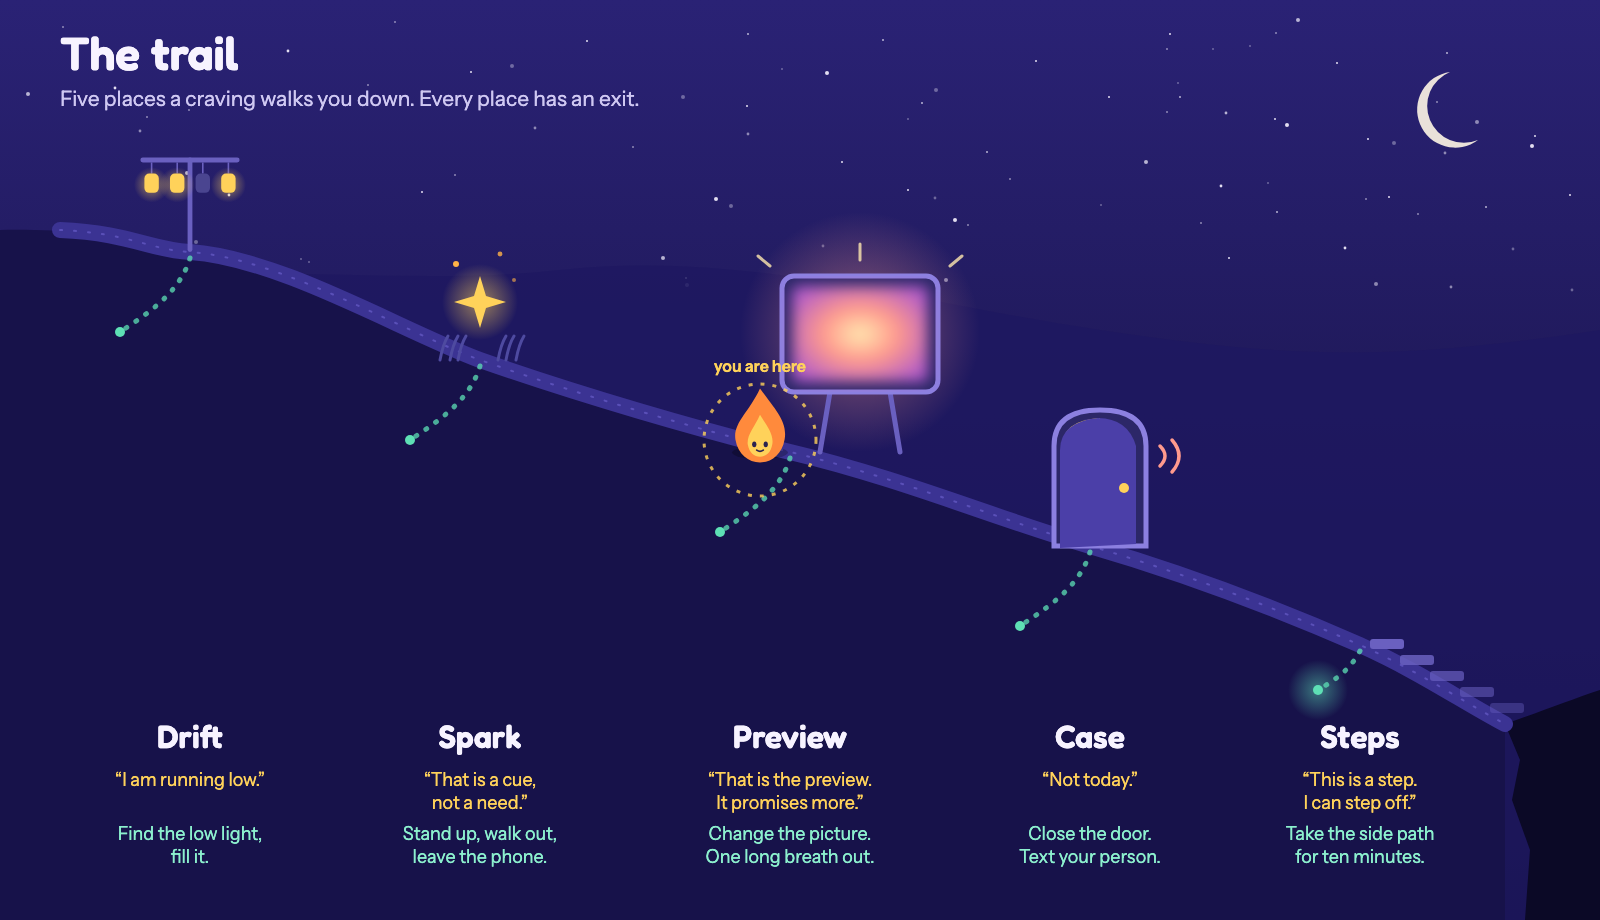
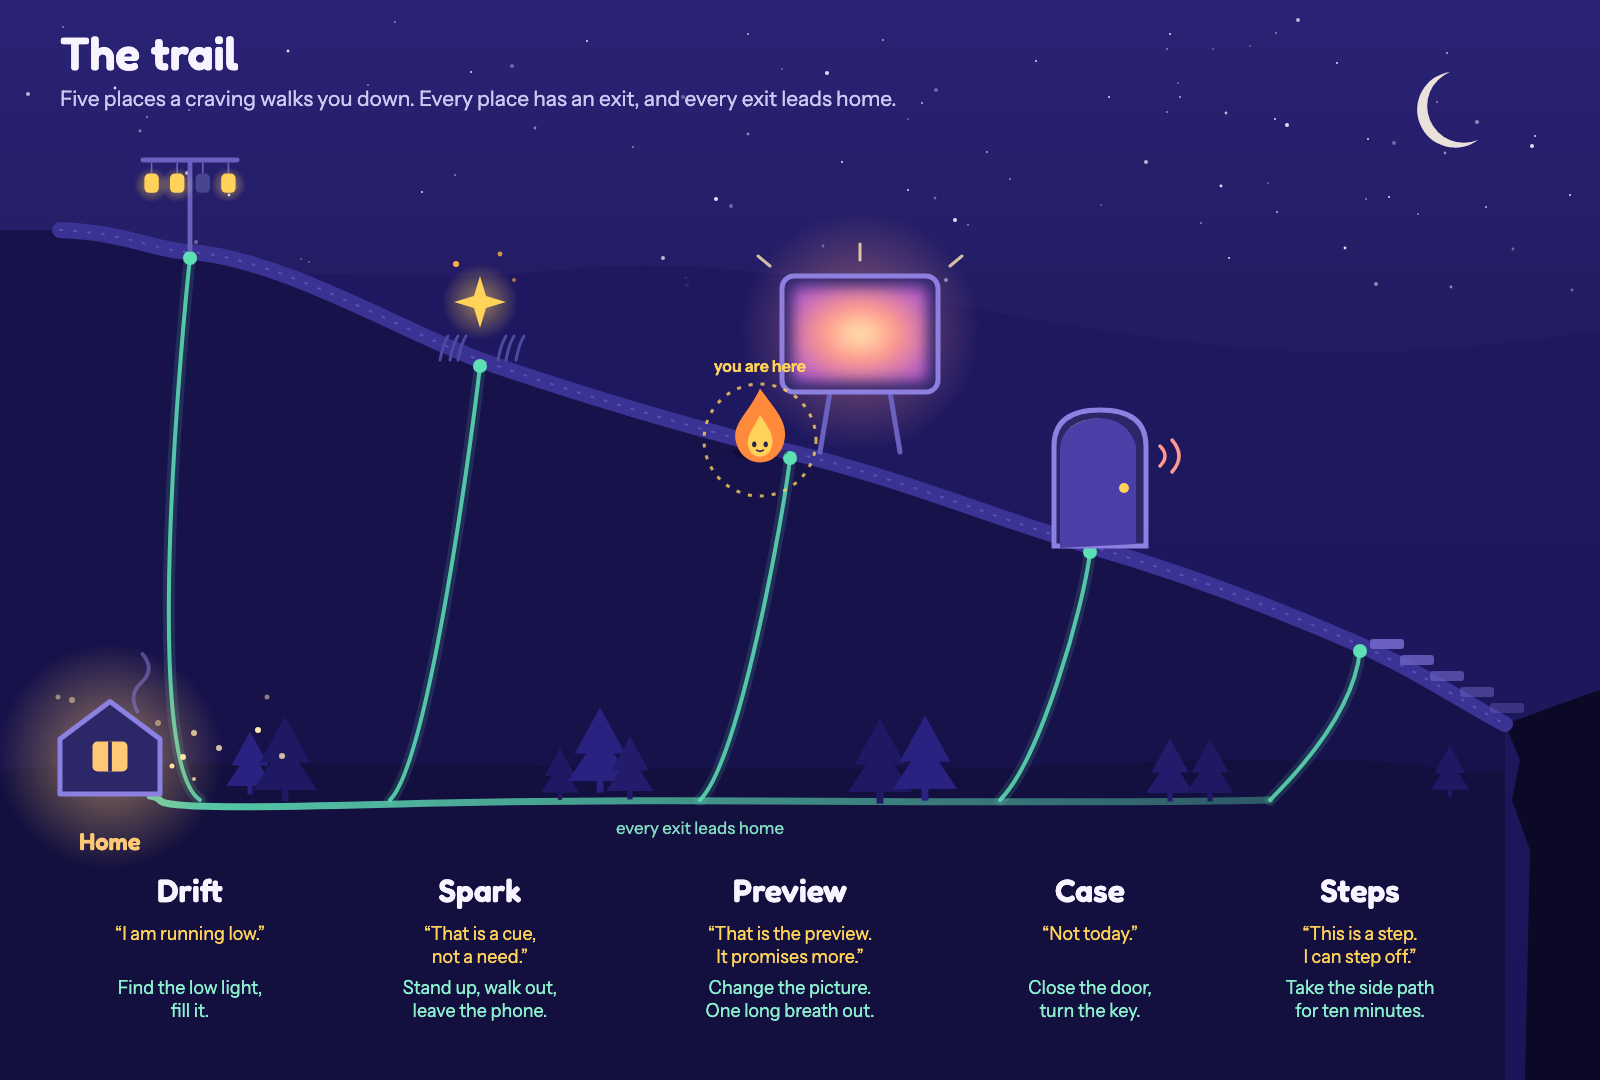
Plan: the trail without reaching out, exits that lead home, and each drill in three lengths for the time a person has (the owner, November 3, 2026)

diff --git a/docs/plan.md b/docs/plan.md
@@ -186,16 +186,41 @@ an if-then plan resists derailing (d = .77), and picturing the steps beats pictu
 - _One drill per place, the same every time:_ a line said once, and one thing done with the body. Drift: "I am running low";
   find the low light and fill it. Spark: "That is a cue, not a need"; stand up, walk out, leave the phone. Preview: "That is the
   preview; it promises more"; slide your own picture over it, one long breath out. Case: "Not today"; hold to close the door,
-  then text your person. Steps: "This is a step; I can step off"; take the side path for ten minutes. If it surges again, go to
+  then turn the key. Steps: "This is a step; I can step off"; take the side path for ten minutes. If it surges again, go to
   the place it has reached; nothing is relearned mid-urge.
 - _Screens_ (docs/keeps-review/2-screens.png): Where is it now? (touch the place), At the door (next it will say, your calm-day
-  answer, hold to close, text), Change the picture (slide your scene over the glow, the wave past its top), and a note on the lock
+  answer, hold to close, turn the key), Change the picture (slide your scene over the glow, the wave past its top), and a note on the lock
   screen whose buttons do the move.
 - _Motion_ (for the build): the flame walks the trail to the place touched; the door's light narrows as the hold fills, then a
   soft heavy haptic as it shuts; the glow blurs and slides away under the person's picture; the light in Drift brightens when
   filled. Reduce Motion shows each end state. Night colors in either theme.
 - _Avoid_ (from the research): brains, shields, rank badges, a wave that only says "it passes", red or broken motion at Case and
   Steps, any picture of the act, and arguing with the thought.
+
+### The owner's changes to the trail (November 3, 2026)
+
+The owner liked the look ("excellent, keep going, you are on the right track") and changed three things:
+
+- _No reaching out in the drill._ "For me I do not want it to have reaching out as part of it." The trail asks nothing of another
+  person: Case is now close the door, then turn the key (your own reason, in your words). The safe person stays where it already is
+  in the app, but no move, note button or screen of the trail sends or suggests a message.
+- _The exits lead somewhere._ The first picture felt unfinished ("I only see a couple dots"). Now every exit is a solid mint path
+  down to a valley path, and the valley leads home: a small house with a lit window, trees and fireflies. Stepping off ends at Home
+  (screen 7): "You stepped off at Preview. Two hours and forty minutes held today", with Done, and "It is back" to start again.
+- _It fits the time you have._ Each drill comes in three lengths, chosen once on Where is it now? (10 seconds, 2 minutes, 10 or
+  more) and remembered:
+
+| Place   | 10 seconds                    | 2 minutes                                                    | 10 or more                                                 |
+| ------- | ----------------------------- | ------------------------------------------------------------ | ---------------------------------------------------------- |
+| Drift   | Name the low light            | Fill it the fast way (water, food, rest)                     | Fill it properly (a meal, a shower, a nap)                 |
+| Spark   | Stand up                      | Walk out of the room; the phone stays                        | Change the place: go outside with somewhere to go          |
+| Preview | Say it, one long breath out   | Slide your picture over the glow; ride the wave past its top | Play your picture forward: the next hour, tomorrow morning |
+| Case    | "Not today": close the door   | Read its next line and your answer; turn the key             | Write its case and your answer into the kit                |
+| Steps   | Put the phone face down, away | Take the side path, one planned thing                        | The side path for ten minutes, with a timer                |
+
+Screens: docs/keeps-review/1-trail.png (the world), 2-screens.png (Where is it now with the time, Drift's four lights, Spark's
+walk out, Preview's picture), 3-screens.png (Case's door and key, Steps' side path with the timer, Home, the lock-screen note,
+whose buttons are now Not today, Show me where I am, Not before, and Leave me be today).
 
 ### Open questions for the owner
 
